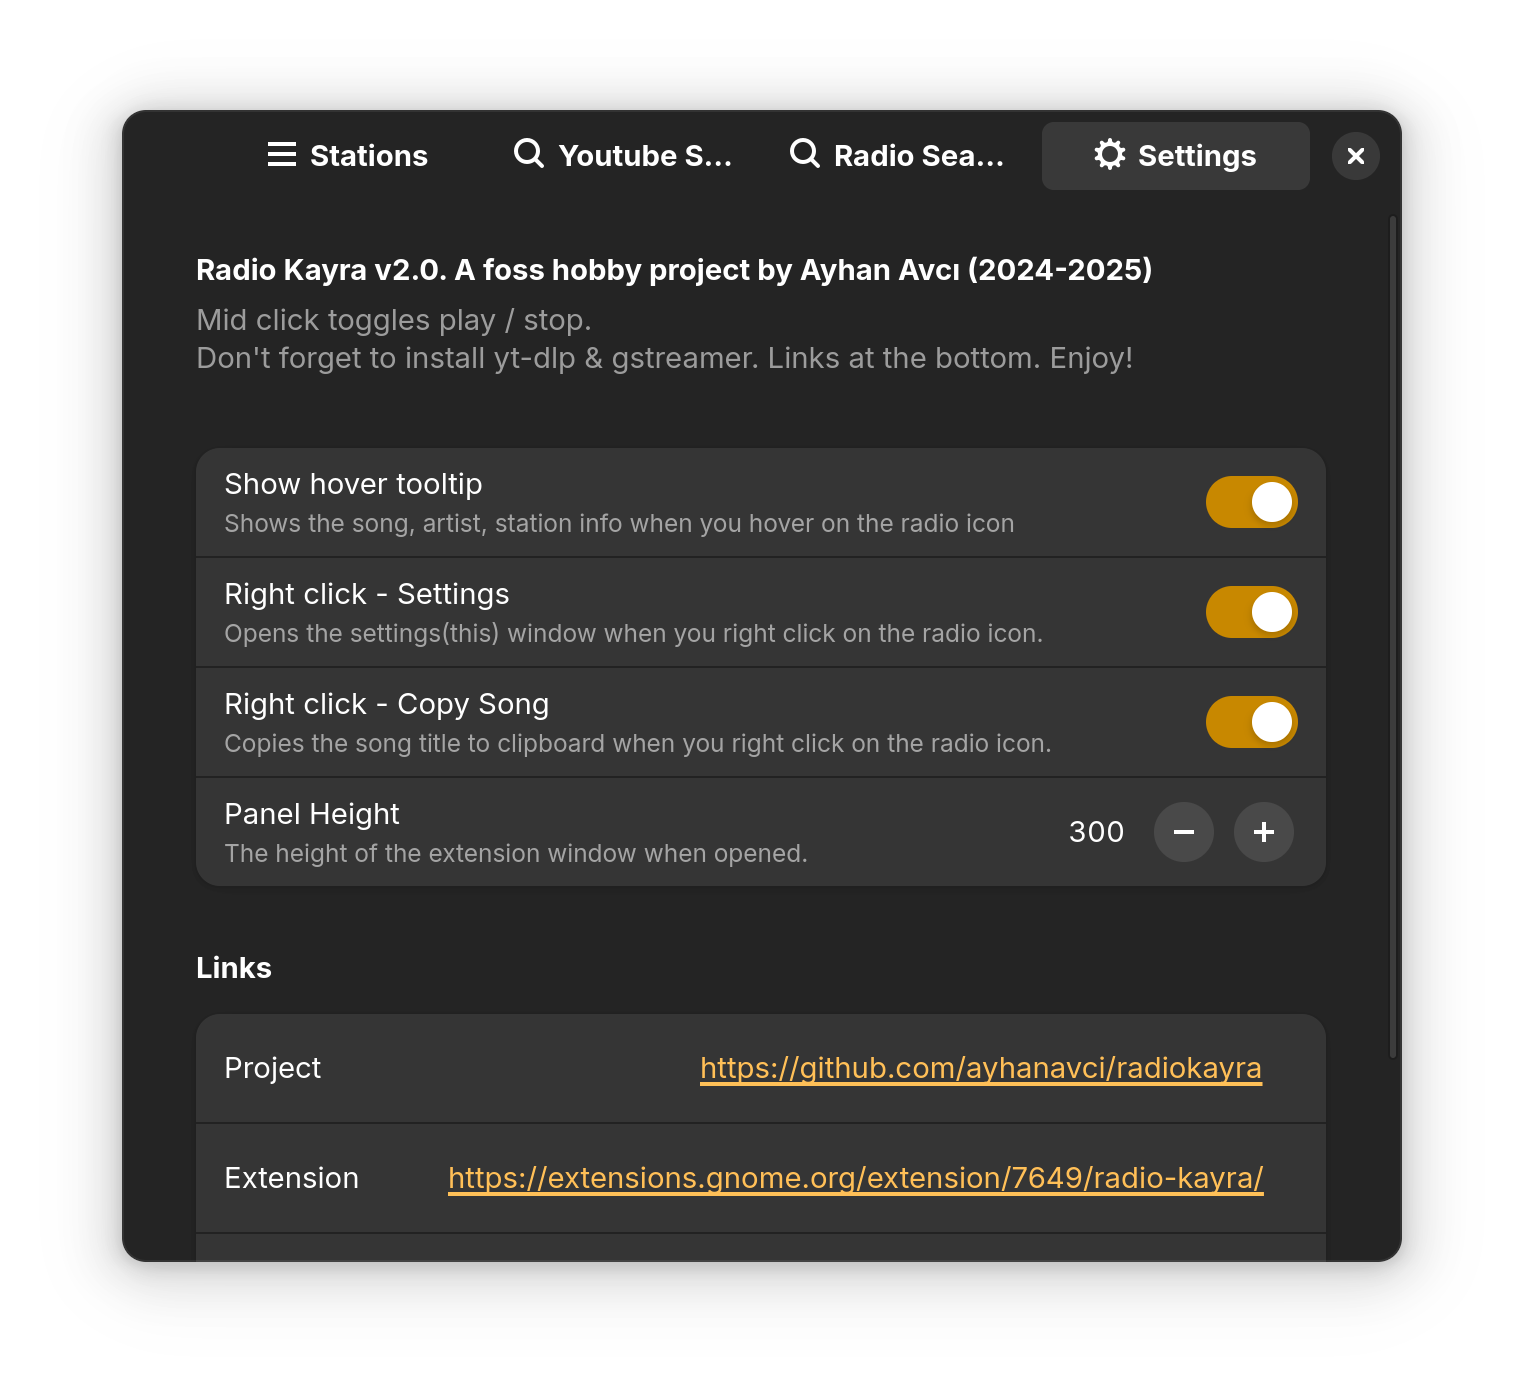
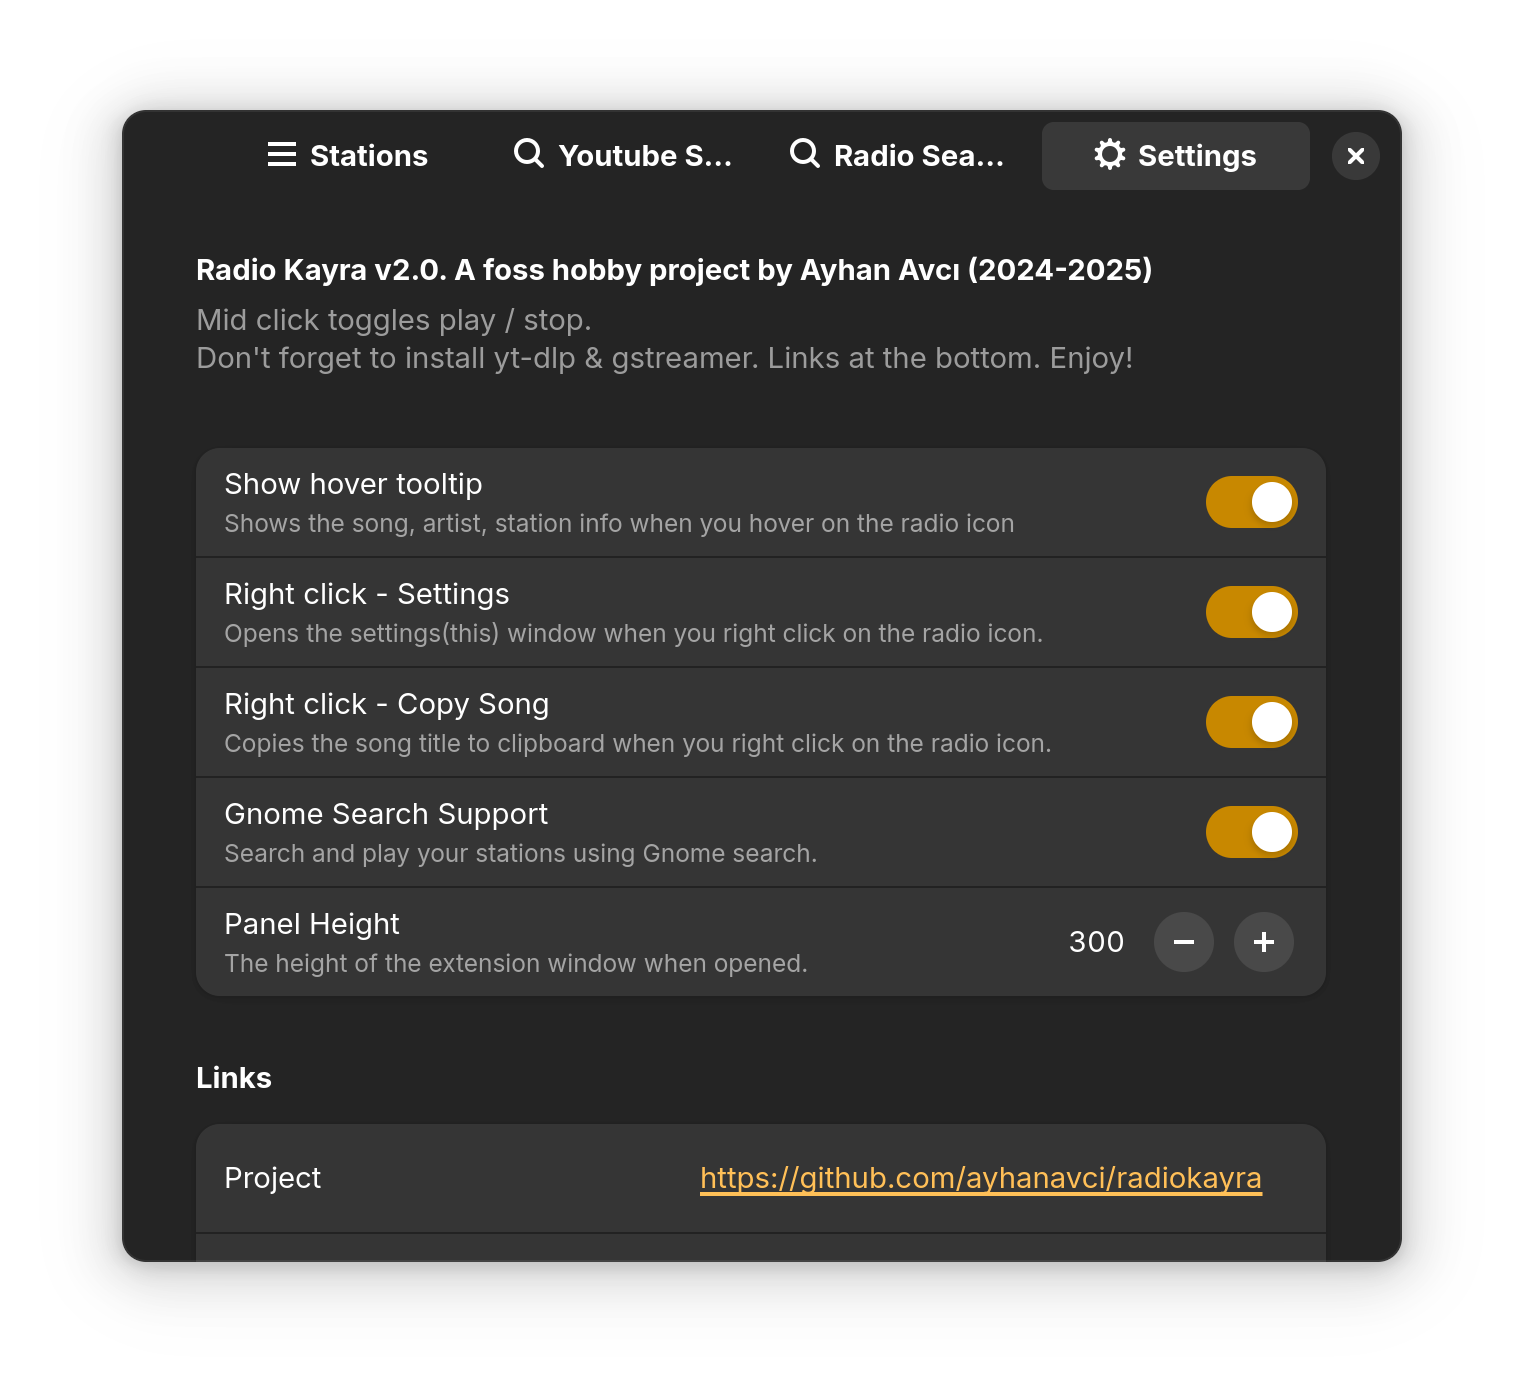
gnome search

diff --git a/kayramenu.js b/kayramenu.js
@@ -16,6 +16,7 @@ import * as PopVolumeControl from "./popvolumecontrol.js";
 import * as Channels from "./channels.js";
 import * as Constants from "./constants.js";
 import * as RadioKayra from "./radiokayra.js";
+import * as KayraSearchProvider from "./searchProvider.js";
 
 import * as Main from 'resource:///org/gnome/shell/ui/main.js';
 
@@ -60,6 +61,11 @@ export const RadiokayraMenuButton = GObject.registerClass(
             this._tooltip?.destroy();
             this._tooltip = null;
 
+            if (this._provider != null) {
+                Main.overview.searchController.removeProvider(this._provider);
+                this._provider = null;
+            }
+                        
             super.destroy();
         }
         setTrayIconStopped() {
@@ -86,17 +92,14 @@ export const RadiokayraMenuButton = GObject.registerClass(
             let volume = this._settings.get_double(Constants.SCHEMA_VOLUME_LEVEL);
             this._player = new RadioKayra.RadioPlayer(volume);
 
+            //REFRESH CHANNELS EVENT
             this._settings_changed_handler = this._settings.connect("changed::" + Constants.SCHEMA_CHANNELS_CHANGE_EVENT, () => {
                 console.info(`EXT: ${Constants.LOG_PREFIX_EXTENSION} ${Constants.LOG_INFO_CHANNELS_JSON_CHANGED}`);
                 this._channelSection.removeAll();                
                 this.addChannels();
             });
-
-            this._height_changed_handler = this._settings.connect("changed::" + Constants.SCHEMA_PANEL_HEIGHT, () => {                
-                let newHeight = radiokayraPanel._settings.get_int(Constants.SCHEMA_PANEL_HEIGHT);
-                this._channelScrollView.set_height(newHeight);
-            });
-         
+            //REFRESH CHANNELS EVENT            
+                                 
             this._iconStopped = Gio.icon_new_for_string(this._path + Constants.ICON_RADIO_OFF_PATH);
             this._iconPlaying = Gio.icon_new_for_string(this._path + Constants.ICON_RADIO_ON_PATH);
 
@@ -161,6 +164,13 @@ export const RadiokayraMenuButton = GObject.registerClass(
             this._channelScrollView.add_child(this._channelSection.actor);
             let newHeight = radiokayraPanel._settings.get_int(Constants.SCHEMA_PANEL_HEIGHT);
             this._channelScrollView.set_height(newHeight);
+            
+            //PANEL HEIGHT EVENT            
+            this._height_changed_handler = this._settings.connect("changed::" + Constants.SCHEMA_PANEL_HEIGHT, () => {                
+                newHeight = radiokayraPanel._settings.get_int(Constants.SCHEMA_PANEL_HEIGHT);
+                this._channelScrollView.set_height(newHeight);
+            });
+            //PANEL HEIGHT EVENT
 
             this._scrollViewMenuSection.actor.add_child(this._channelScrollView);            
             this.menu.addMenuItem(this._scrollViewMenuSection);
@@ -197,6 +207,29 @@ export const RadiokayraMenuButton = GObject.registerClass(
                 }
             });
 
+            this._provider = null;
+            if (radiokayraPanel._settings.get_boolean(Constants.SCHEMA_GNOME_SEARCH)) 
+            {                
+                this._provider = new KayraSearchProvider.SearchProvider(extension, this);
+                Main.overview.searchController.addProvider(this._provider);
+            }  
+            
+            this._search_event_handler = this._settings.connect("changed::" + Constants.SCHEMA_GNOME_SEARCH, () => {                
+                let bSearch = radiokayraPanel._settings.get_boolean(Constants.SCHEMA_GNOME_SEARCH);
+                console.error("GNOME SEARCH:" + bSearch);
+                if (bSearch) {
+                    if (this._provider != null) {
+                        Main.overview.searchController.removeProvider(this._provider);                                               
+                    }
+                    this._provider = new KayraSearchProvider.SearchProvider(extension, this); 
+                    Main.overview.searchController.addProvider(this._provider);
+                }
+                else {
+                    Main.overview.searchController.removeProvider(this._provider);
+                    this._provider = null;
+                }                                    
+            });
+            
             this.stateReady();
             this.setTrayIconStopped();
         }

diff --git a/extension.js b/extension.js
@@ -3,6 +3,7 @@ import * as Main from "resource:///org/gnome/shell/ui/main.js";
 import Gio from "gi://Gio";
 import * as KayraMenu from "./kayramenu.js";
 import * as KayraSearchProvider from "./searchProvider.js";
+import * as Constants from "./constants.js";
 
 export default class RadioKayraExtension extends Extension {
   constructor(metadata) {
@@ -11,16 +12,21 @@ export default class RadioKayraExtension extends Extension {
   }
   addSettingsWindow() {}
   enable() {             
-    this.menuButton = new KayraMenu.RadiokayraMenuButton(this);
-    this._provider = new KayraSearchProvider.SearchProvider(this, this.menuButton);
-    Main.overview.searchController.addProvider(this._provider);
-    Main.panel.addToStatusArea(this.uuid, this.menuButton);
-    
+    this.menuButton = new KayraMenu.RadiokayraMenuButton(this);        
+    this._provider = null;
+    /*if (this.getSettings().get_boolean(Constants.SCHEMA_GNOME_SEARCH)) 
+    {
+        this._provider = new KayraSearchProvider.SearchProvider(this, this.menuButton);
+        Main.overview.searchController.addProvider(this._provider);
+    }        */
+    Main.panel.addToStatusArea(this.uuid, this.menuButton);    
   }
 
-  disable() {    
-    Main.overview.searchController.removeProvider(this._provider);
-    this._provider = null;
+  disable() {     
+    /*if (this._provider != null) {
+        Main.overview.searchController.removeProvider(this._provider);
+        this._provider = null;
+    } */      
     this.menuButton?.destroy();
     this.menuButton = null;
   }    

diff --git a/settingsspage.js b/settingsspage.js
@@ -67,6 +67,15 @@ export const SettingsPageHandler = class SettingsPageHandler {
                 step_increment: 5
             })
         });
+        //GNOME SEARCH
+        this._gnome_search = new Adw.SwitchRow({
+            title: _("Gnome Search Support"),
+            subtitle: _("Search and play your stations using Gnome search.")
+        });
+        this._schema.bind(Constants.SCHEMA_GNOME_SEARCH, this._gnome_search, 'active', Gio.SettingsBindFlags.DEFAULT);
+        this._settingsGroup.add(this._gnome_search); 
+        //GNOME SEARCH
+
         //this._panel_height_spin.value = 220;
         this._schema.bind(Constants.SCHEMA_PANEL_HEIGHT, this._panel_height_spin, 'value', Gio.SettingsBindFlags.DEFAULT);
         this._settingsGroup.add(this._panel_height_spin); 

diff --git a/constants.js b/constants.js
@@ -25,6 +25,7 @@ export const SCHEMA_PANEL_HEIGHT = "panelheight";
 export const SCHEMA_SONG_TOOLTIP = "showsongtooltip";
 export const SCHEMA_RIGHTCLICK_SETTINGS = "rightclicksettings";
 export const SCHEMA_RIGHTCLICK_COPYSONG = "rightclickcopysong";
+export const SCHEMA_GNOME_SEARCH = "gnomesearch";
 
 export const CSS_SETTINGS_POPUP = "settings-menu-item";
 export const CSS_CHANNEL_LIST_THUMBNAIL = "channel-list-item";

diff --git a/readme.md b/readme.md
@@ -28,7 +28,7 @@ It utilizes [yt-dlp](https://github.com/yt-dlp/yt-dlp) and [GStreamer](https://g
 * Language support. For now only English and Turkish. But no coding necessary to add more languages. See [Gjs guide](https://gjs.guide/extensions/development/translations.html#scanning-for-translatable-strings)
 
 ## Features v2.0:
-* Back & Forward buttons to navigate through stations. 
+* Back & Forward buttons to navigate through stations.
 * Radio & Youtube search returns up to 30 results.
 * Settings page. Change scroll area height, right click behaviour.
 * Can copy the currently playing artist+song into clipboard with a right click! (Enable from settings)
@@ -57,7 +57,7 @@ Select "Youtube Search" on the top, type your search phrase and click enter or s
 To add a search result. Just click the + button next to it. This will add the channel name, url and the thumbnail to your stations.
 
 ## Radio Search
-Select "Radio Search" on the top, type your search phrase and click enter or search button. This will perform a radio search and the results will be retrieved and displayed asynchronously. It returns up to 30 results.
+Select "Radio Search" on the top, type your search phrase and click enter or search button. This will perform a radio search and the results will be retrieved synchronously and then displayed (so it may freeze for 1-2 seconds, unlike youtube search). It returns up to 30 results.
 
 <img src="./.readme/radio_search.png" alt="Alt Text" width="100%" height="100%"> 
 
